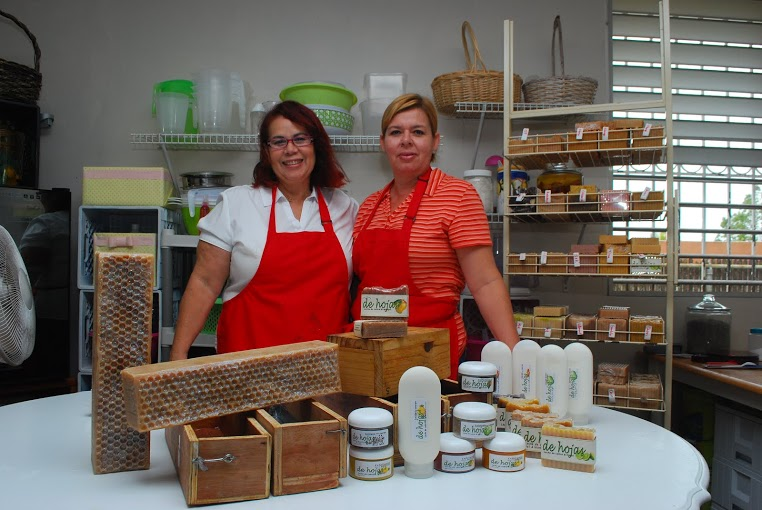
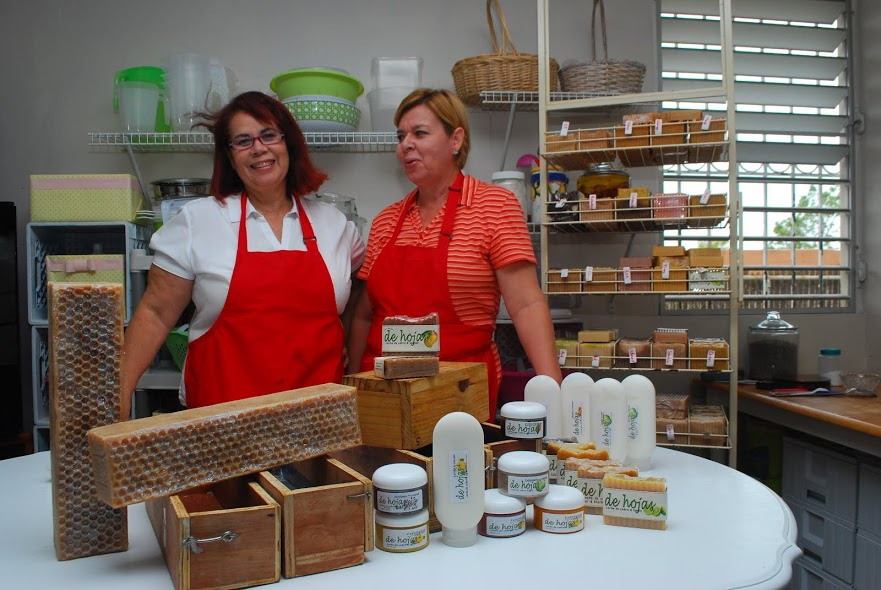
Changing image in sobre page

diff --git a/static/css/orgullopr.css b/static/css/orgullopr.css
@@ -525,9 +525,9 @@ button.submit:active {
 
 /* videos.html end */
 .sobre-image {
-    margin-top: 2px;
+    margin-top: 5px;
     padding-top: 1px;
-    width: 70%;
+    width: 100%;
     margin-right: auto;
     margin-left: auto;
     display: block;
